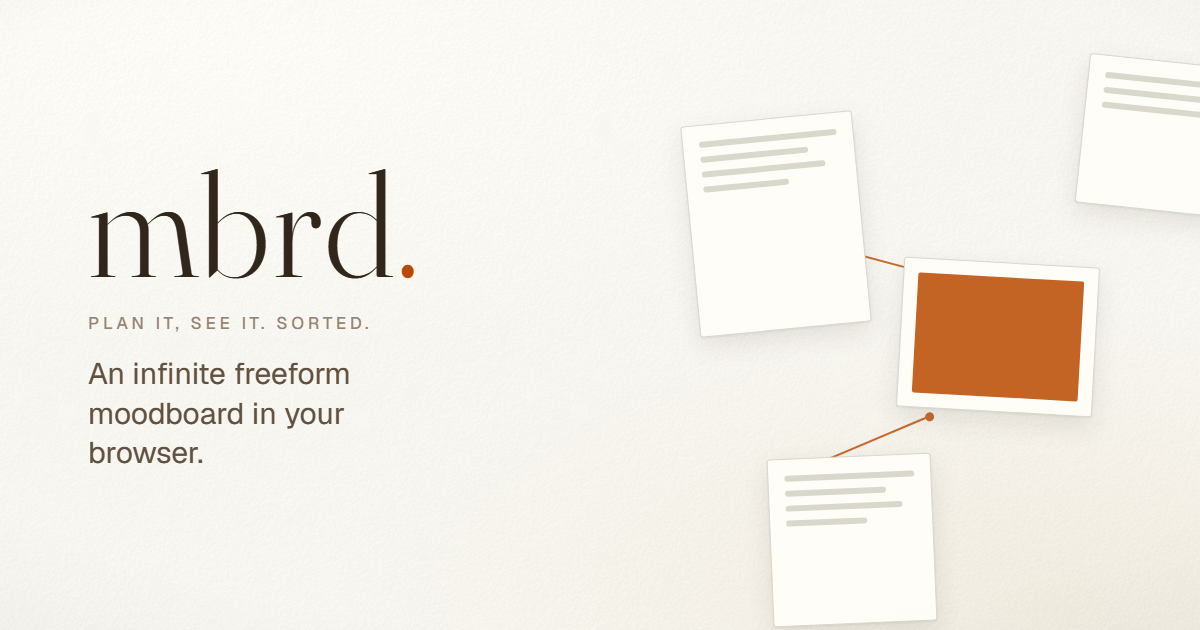
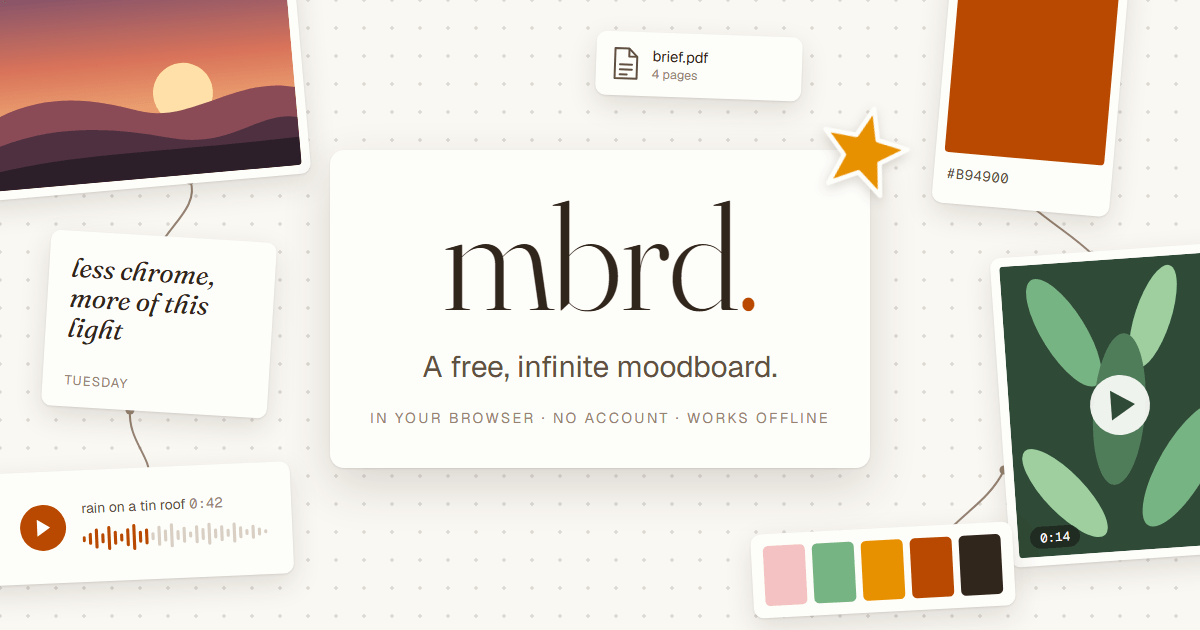
New link-preview image, drawn from a source the repository keeps
og.png is now generated: tools/og.html lays out the card, and
tools/gen-og.mjs renders it in headless Edge with the app's own fonts and
packs it into a palette PNG. 548 KB became 56 KB, under the size WhatsApp
drops a preview at.

The wordmark sits on a card in the middle so a centred square crop keeps
it, with photos, a video, a note, a sound clip, swatches and threads
running off every edge around it. The alt text follows it on /, the 404
copy and /patch.

diff --git a/tools/og.html b/tools/og.html
@@ -1,0 +1,247 @@
+<!doctype html>
+<!--
+  Source of web/assets/img/og.png, the 1200x630 card every link preview shows.
+  Rendered by tools/gen-og.mjs in headless Edge, which inlines the app's own
+  fonts where the FONTS marker sits - open this file directly and the text falls
+  back to system faces. Everything is drawn here: no photograph, no third-party
+  art, nothing to license.
+
+  The wordmark sits in the middle on purpose. Some apps crop the card to a
+  centred square (x 285-915), and the name has to survive that; the board
+  around it is free to be cut, since running off every edge is the point.
+-->
+<html lang="en">
+<head>
+<meta charset="utf-8">
+<style>
+/*FONTS*/
+:root {
+  --paper: #faf8f3;
+  --card: #fdfdfa;
+  --ink: #31261b;
+  --ink-2: #615141;
+  --ink-3: #968371;
+  --accent: #b94900;
+  --amber: #e89100;
+  --rose: #f4c2c2;
+  --absinthe: #76b583;
+  --shadow: 0 1px 2px rgba(49, 38, 27, .10), 0 10px 28px rgba(49, 38, 27, .13);
+}
+* { box-sizing: border-box; margin: 0; }
+html, body { width: 1200px; height: 630px; overflow: hidden; }
+body {
+  position: relative;
+  background:
+    radial-gradient(circle, rgba(49, 38, 27, .15) 1.5px, transparent 1.8px) 14px 14px / 28px 28px,
+    var(--paper);
+  font-family: 'Geist', sans-serif;
+  color: var(--ink);
+}
+.card {
+  position: absolute;
+  background: var(--card);
+  border-radius: 10px;
+  box-shadow: var(--shadow);
+}
+.art { display: block; width: 100%; height: 100%; border-radius: 4px; }
+.mono { font-family: 'Geist Mono', monospace; }
+
+/* The threads run under every card, from dot to dot. */
+#threads { position: absolute; inset: 0; }
+
+/* The name card. Straight, where everything else is askew. */
+#name {
+  left: 330px; top: 150px; width: 540px; height: 318px;
+  display: flex; flex-direction: column; align-items: center; justify-content: center;
+  border-radius: 14px;
+  box-shadow: 0 1px 2px rgba(49, 38, 27, .10), 0 18px 48px rgba(49, 38, 27, .16);
+}
+#name h1 {
+  font-family: 'Fraunces', serif;
+  font-weight: 300;
+  font-size: 150px;
+  line-height: 1;
+  letter-spacing: -.01em;
+  margin-top: -10px;
+}
+#name h1 b { color: var(--accent); font-weight: 300; }
+#name p {
+  margin-top: 16px;
+  font-size: 30px;
+  color: var(--ink-2);
+  letter-spacing: -.005em;
+}
+#name small {
+  margin-top: 22px;
+  font-size: 14.5px;
+  letter-spacing: .16em;
+  text-transform: uppercase;
+  color: var(--ink-3);
+}
+
+#dusk { left: -34px; top: -44px; width: 336px; height: 232px; transform: rotate(-5deg); padding: 9px; }
+
+#note {
+  left: 46px; top: 236px; width: 226px; height: 176px; transform: rotate(3.5deg);
+  padding: 22px 22px 18px;
+  display: flex; flex-direction: column; justify-content: space-between;
+}
+#note q {
+  font-family: 'Fraunces', serif; font-style: italic; font-weight: 400;
+  font-size: 27px; line-height: 1.12; quotes: none;
+}
+#note span { font-size: 13px; color: var(--ink-3); letter-spacing: .08em; text-transform: uppercase; }
+
+#sound {
+  left: -26px; top: 468px; width: 318px; height: 112px; transform: rotate(-2.5deg);
+  display: flex; align-items: center; gap: 16px; padding: 0 22px 0 46px;
+}
+#sound .play {
+  flex: none; width: 46px; height: 46px; border-radius: 50%; background: var(--accent);
+  display: grid; place-items: center;
+}
+#sound .wave { flex: 1; min-width: 0; }
+#sound .wave div { font-size: 14px; color: var(--ink-2); white-space: nowrap; margin-bottom: 8px; }
+#sound .wave svg { display: block; width: 100%; height: 28px; }
+
+#file {
+  left: 596px; top: 34px; width: 206px; height: 64px; transform: rotate(2deg);
+  display: flex; align-items: center; gap: 12px; padding: 0 16px;
+}
+#file div { font-size: 15px; line-height: 1.3; }
+#file span { display: block; font-size: 12.5px; color: var(--ink-3); }
+
+#swatch { left: 942px; top: -46px; width: 178px; height: 256px; transform: rotate(5deg); padding: 9px 9px 0; }
+#swatch i { display: block; height: 196px; background: var(--accent); border-radius: 4px; }
+#swatch div { padding: 12px 4px; font-size: 14px; color: var(--ink-2); letter-spacing: .04em; }
+
+#clip { left: 1000px; top: 250px; width: 240px; height: 310px; transform: rotate(-4deg); padding: 9px; }
+
+#palette {
+  left: 752px; top: 528px; width: 262px; height: 84px; transform: rotate(-3deg);
+  display: flex; gap: 7px; padding: 12px;
+}
+#palette i { flex: 1; border-radius: 5px; }
+
+#star { position: absolute; left: 818px; top: 104px; width: 92px; height: 92px; transform: rotate(14deg); filter: drop-shadow(0 4px 6px rgba(49, 38, 27, .18)); }
+</style>
+</head>
+<body>
+
+<svg id="threads" viewBox="0 0 1200 630" fill="none" stroke="#968371" stroke-width="2" stroke-linecap="round">
+  <path d="M190 180 C 200 205, 170 225, 160 246"/>
+  <path d="M130 410 C 128 440, 150 455, 150 478"/>
+  <path d="M1030 205 C 1060 230, 1080 240, 1100 262"/>
+  <path d="M1004 470 C 990 500, 960 515, 944 536"/>
+  <g fill="#968371" stroke="none">
+    <circle cx="190" cy="180" r="4.5"/><circle cx="160" cy="246" r="4.5"/>
+    <circle cx="130" cy="410" r="4.5"/><circle cx="150" cy="478" r="4.5"/>
+    <circle cx="1030" cy="205" r="4.5"/><circle cx="1100" cy="262" r="4.5"/>
+    <circle cx="1004" cy="470" r="4.5"/><circle cx="944" cy="536" r="4.5"/>
+  </g>
+</svg>
+
+<!-- A photograph: dusk over hills. -->
+<div class="card" id="dusk">
+  <svg class="art" viewBox="0 0 318 214" preserveAspectRatio="none">
+    <defs>
+      <linearGradient id="sky" x1="0" y1="0" x2="0" y2="1">
+        <stop offset="0" stop-color="#6d4a6e"/>
+        <stop offset=".45" stop-color="#d9745a"/>
+        <stop offset=".8" stop-color="#f4b77c"/>
+      </linearGradient>
+    </defs>
+    <rect width="318" height="214" fill="url(#sky)"/>
+    <circle cx="206" cy="132" r="30" fill="#ffe0a8"/>
+    <path d="M0 150 C 60 118, 110 128, 160 146 S 260 120, 318 136 V214 H0Z" fill="#8a4b56"/>
+    <path d="M0 176 C 70 150, 130 160, 190 176 S 280 156, 318 166 V214 H0Z" fill="#4e3040"/>
+    <path d="M0 198 C 90 182, 170 190, 318 186 V214 H0Z" fill="#2d1f29"/>
+  </svg>
+</div>
+
+<div class="card" id="note">
+  <q>less chrome, more of this light</q>
+  <span>tuesday</span>
+</div>
+
+<div class="card" id="sound">
+  <div class="play">
+    <svg width="18" height="20" viewBox="0 0 18 20"><path d="M3 1.5 L16 10 L3 18.5Z" fill="#fff"/></svg>
+  </div>
+  <div class="wave">
+    <div>rain on a tin roof <span class="mono" style="color:#968371">0:42</span></div>
+    <svg viewBox="0 0 180 28" preserveAspectRatio="none">
+      <g fill="#b94900">
+        <rect x="0" y="11" width="3" height="6" rx="1.5"/><rect x="6" y="8" width="3" height="12" rx="1.5"/>
+        <rect x="12" y="4" width="3" height="20" rx="1.5"/><rect x="18" y="9" width="3" height="10" rx="1.5"/>
+        <rect x="24" y="2" width="3" height="24" rx="1.5"/><rect x="30" y="7" width="3" height="14" rx="1.5"/>
+        <rect x="36" y="10" width="3" height="8" rx="1.5"/><rect x="42" y="5" width="3" height="18" rx="1.5"/>
+        <rect x="48" y="1" width="3" height="26" rx="1.5"/><rect x="54" y="8" width="3" height="12" rx="1.5"/>
+        <rect x="60" y="6" width="3" height="16" rx="1.5"/>
+      </g>
+      <g fill="#d9cfc3">
+        <rect x="66" y="10" width="3" height="8" rx="1.5"/><rect x="72" y="4" width="3" height="20" rx="1.5"/>
+        <rect x="78" y="8" width="3" height="12" rx="1.5"/><rect x="84" y="2" width="3" height="24" rx="1.5"/>
+        <rect x="90" y="9" width="3" height="10" rx="1.5"/><rect x="96" y="6" width="3" height="16" rx="1.5"/>
+        <rect x="102" y="11" width="3" height="6" rx="1.5"/><rect x="108" y="5" width="3" height="18" rx="1.5"/>
+        <rect x="114" y="8" width="3" height="12" rx="1.5"/><rect x="120" y="3" width="3" height="22" rx="1.5"/>
+        <rect x="126" y="9" width="3" height="10" rx="1.5"/><rect x="132" y="6" width="3" height="16" rx="1.5"/>
+        <rect x="138" y="10" width="3" height="8" rx="1.5"/><rect x="144" y="4" width="3" height="20" rx="1.5"/>
+        <rect x="150" y="8" width="3" height="12" rx="1.5"/><rect x="156" y="11" width="3" height="6" rx="1.5"/>
+        <rect x="162" y="7" width="3" height="14" rx="1.5"/><rect x="168" y="10" width="3" height="8" rx="1.5"/>
+        <rect x="174" y="12" width="3" height="4" rx="1.5"/>
+      </g>
+    </svg>
+  </div>
+</div>
+
+<div class="card" id="file">
+  <svg width="28" height="34" viewBox="0 0 28 34" fill="none" stroke="#615141" stroke-width="2" stroke-linejoin="round">
+    <path d="M3 2h14l8 8v22H3Z"/><path d="M17 2v8h8"/><path d="M8 18h12M8 23h12M8 28h7" stroke-linecap="round"/>
+  </svg>
+  <div>brief.pdf<span>4 pages</span></div>
+</div>
+
+<div class="card" id="swatch">
+  <i></i>
+  <div class="mono">#B94900</div>
+</div>
+
+<!-- A video: leaves, with the play mark over them. -->
+<div class="card" id="clip">
+  <svg class="art" viewBox="0 0 222 292" preserveAspectRatio="none">
+    <rect width="222" height="292" fill="#2f4a36"/>
+    <g fill="#76b583">
+      <ellipse cx="60" cy="70" rx="22" ry="62" transform="rotate(-28 60 70)"/>
+      <ellipse cx="170" cy="210" rx="24" ry="70" transform="rotate(34 170 210)"/>
+    </g>
+    <g fill="#9fcf9f">
+      <ellipse cx="150" cy="60" rx="18" ry="54" transform="rotate(22 150 60)"/>
+      <ellipse cx="50" cy="230" rx="20" ry="58" transform="rotate(-40 50 230)"/>
+    </g>
+    <g fill="#4f7d5a">
+      <ellipse cx="110" cy="150" rx="26" ry="76" transform="rotate(8 110 150)"/>
+    </g>
+    <circle cx="111" cy="146" r="30" fill="rgba(253,253,250,.92)"/>
+    <path d="M102 131 L126 146 L102 161Z" fill="#2f4a36"/>
+    <rect x="12" y="262" width="50" height="22" rx="11" fill="rgba(20,20,16,.55)"/>
+    <text x="37" y="277.5" text-anchor="middle" font-family="Geist Mono, monospace" font-size="12.5" fill="#fff">0:14</text>
+  </svg>
+</div>
+
+<div class="card" id="palette">
+  <i style="background:#f4c2c2"></i><i style="background:#76b583"></i><i style="background:#e89100"></i><i style="background:#b94900"></i><i style="background:#31261b"></i>
+</div>
+
+<div class="card" id="name">
+  <h1>mbrd<b>.</b></h1>
+  <p>A free, infinite moodboard.</p>
+  <small>In your browser &middot; no account &middot; works offline</small>
+</div>
+
+<svg id="star" viewBox="0 0 100 100">
+  <path d="M50 4 L62 36 L96 38 L70 60 L79 94 L50 75 L21 94 L30 60 L4 38 L38 36Z" fill="#e89100" stroke="#fdfdfa" stroke-width="5" stroke-linejoin="round"/>
+</svg>
+
+</body>
+</html>

diff --git a/web/patch.html b/web/patch.html
@@ -36,12 +36,12 @@
 <meta property="og:image:type" content="image/png">
 <meta property="og:image:width" content="1200">
 <meta property="og:image:height" content="630">
-<meta property="og:image:alt" content="The mbrd wordmark on a paper board, with cards and threads laid across it.">
+<meta property="og:image:alt" content="The mbrd wordmark on a card in the middle of a board of photos, a video, a note, a sound clip and colour swatches, joined by threads.">
 <meta name="twitter:card" content="summary_large_image">
 <meta name="twitter:title" content="Patch notes - mbrd">
 <meta name="twitter:description" content="Every version of mbrd, newest first - what was added, what was fixed and what got faster.">
 <meta name="twitter:image" content="https://mbrd.valjdakosta.com/assets/img/og.png">
-<meta name="twitter:image:alt" content="The mbrd wordmark on a paper board, with cards and threads laid across it.">
+<meta name="twitter:image:alt" content="The mbrd wordmark on a card in the middle of a board of photos, a video, a note, a sound clip and colour swatches, joined by threads.">
 
 <!-- The crumb says where this page sits relative to the app; without it a
      crawler reads /patch as a second, unrelated root. -->
@@ -101,6 +101,7 @@
 <link rel="stylesheet" href="assets/css/status.css">
 <link rel="stylesheet" href="assets/css/dialog.css">
 <link rel="stylesheet" href="assets/css/viewer.css">
+<link rel="stylesheet" href="assets/css/editor.css">
 <link rel="stylesheet" href="assets/css/color-picker.css">
 <link rel="stylesheet" href="assets/css/sticker-pad.css">
 <link rel="stylesheet" href="assets/css/mobile.css">

diff --git a/web/404.html b/web/404.html
@@ -39,12 +39,12 @@
 <meta property="og:image:type" content="image/png">
 <meta property="og:image:width" content="1200">
 <meta property="og:image:height" content="630">
-<meta property="og:image:alt" content="The mbrd wordmark on a paper board, with cards and threads laid across it.">
+<meta property="og:image:alt" content="The mbrd wordmark on a card in the middle of a board of photos, a video, a note, a sound clip and colour swatches, joined by threads.">
 <meta name="twitter:card" content="summary_large_image">
 <meta name="twitter:title" content="mbrd - an infinite freeform moodboard in your browser">
 <meta name="twitter:description" content="Drop in images, video, audio or text and place them anywhere on an infinite board. No account, works offline, saves as one file.">
 <meta name="twitter:image" content="https://mbrd.valjdakosta.com/assets/img/og.png">
-<meta name="twitter:image:alt" content="The mbrd wordmark on a paper board, with cards and threads laid across it.">
+<meta name="twitter:image:alt" content="The mbrd wordmark on a card in the middle of a board of photos, a video, a note, a sound clip and colour swatches, joined by threads.">
 
 <!-- JSON-LD structured data. Keep in sync with the <noscript> prose below.
      SoftwareApplication (not WebSite) — carries `offers`, and price:0 puts

diff --git a/web/index.html b/web/index.html
@@ -39,12 +39,12 @@
 <meta property="og:image:type" content="image/png">
 <meta property="og:image:width" content="1200">
 <meta property="og:image:height" content="630">
-<meta property="og:image:alt" content="The mbrd wordmark on a paper board, with cards and threads laid across it.">
+<meta property="og:image:alt" content="The mbrd wordmark on a card in the middle of a board of photos, a video, a note, a sound clip and colour swatches, joined by threads.">
 <meta name="twitter:card" content="summary_large_image">
 <meta name="twitter:title" content="mbrd - an infinite freeform moodboard in your browser">
 <meta name="twitter:description" content="Drop in images, video, audio or text and place them anywhere on an infinite board. No account, works offline, saves as one file.">
 <meta name="twitter:image" content="https://mbrd.valjdakosta.com/assets/img/og.png">
-<meta name="twitter:image:alt" content="The mbrd wordmark on a paper board, with cards and threads laid across it.">
+<meta name="twitter:image:alt" content="The mbrd wordmark on a card in the middle of a board of photos, a video, a note, a sound clip and colour swatches, joined by threads.">
 
 <!-- JSON-LD structured data. Keep in sync with the <noscript> prose below.
      SoftwareApplication (not WebSite) — carries `offers`, and price:0 puts

diff --git a/CLAUDE.md b/CLAUDE.md
@@ -176,9 +176,12 @@ Generators, run when their source changes:
 `node tools/gen-formats.mjs` (→ `import/formats.ts`), `tools/gen-stickers.mjs`
 (→ `stickers.svg`), `node tools/gen-patch-page.mjs` (→ `web/patch.html`),
 `node tools/gen-desktop-icons.mjs` (`icon.svg` → `desktop/icons/`, the `.ico`,
-`.icns` and PNG the three installers want). That last one is the only generator
-that needs an install, and it is `desktop/`'s: it renders SVG through the sharp
-the shell already depends on. Its output is committed so nobody else runs it.
+`.icns` and PNG the three installers want), `node tools/gen-og.mjs`
+(`tools/og.html` → `web/assets/img/og.png`, the link-preview card). Those last
+two are the only generators that need an install, and it is `desktop/`'s: they
+go through the sharp the shell already depends on, and the preview also needs a
+local Edge or Chrome to draw the page. Their output is committed so nobody else
+runs them.
 
 Two more `.mjs` under `tools/` are one-shot printers and not build steps:
 `preset-oklch.mjs` and `gen-tier-palettes.mjs` print numbers that were pasted
